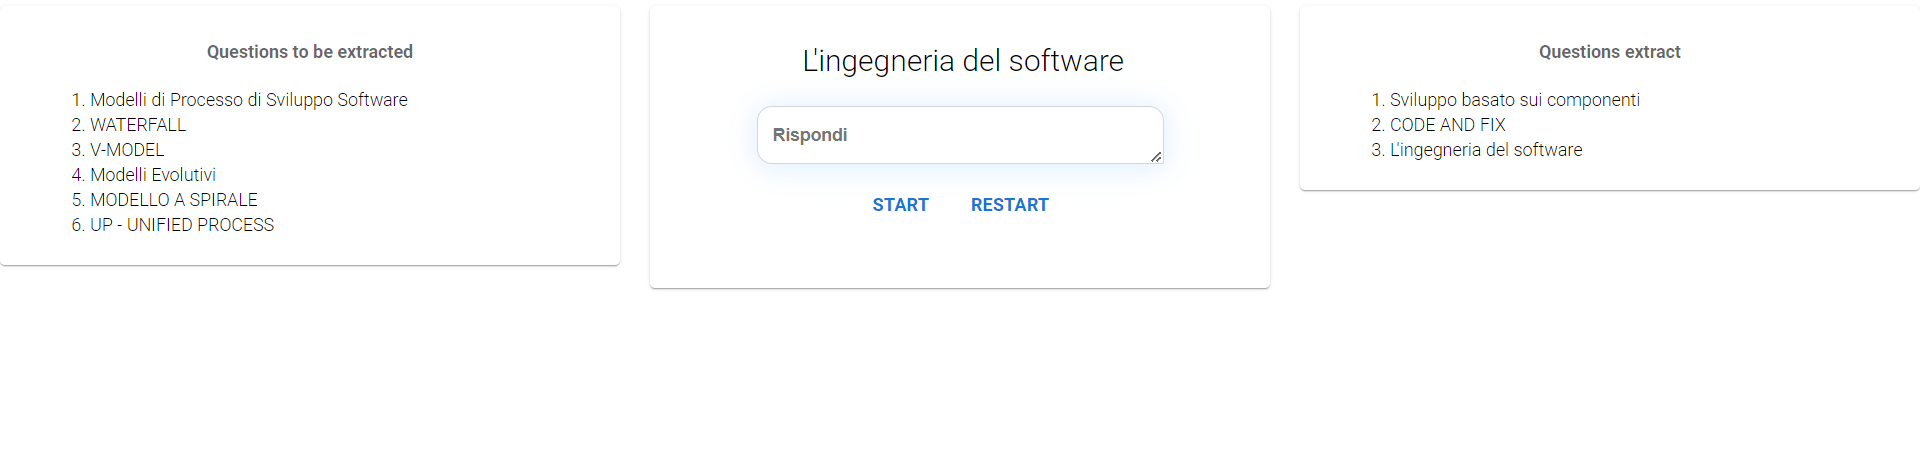
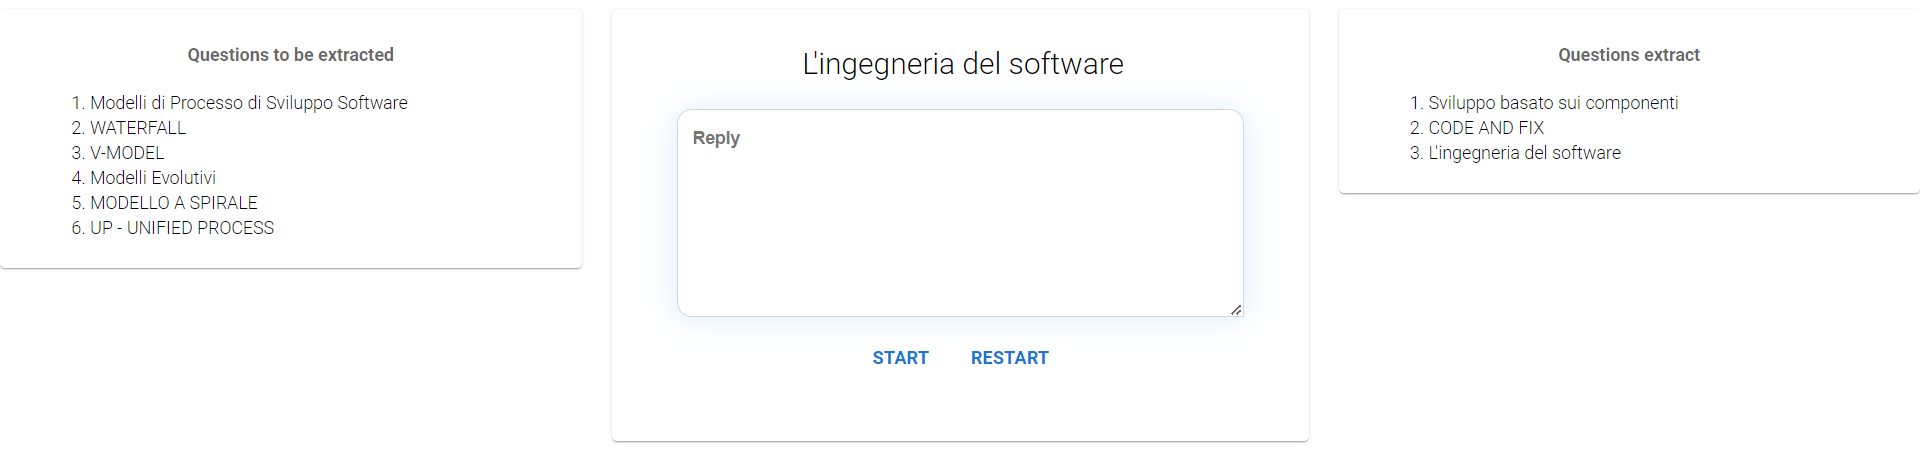
questionGenerator|Add documentation

diff --git a/question-generator/src/EmptyTextArea.js b/question-generator/src/EmptyTextArea.js
@@ -57,5 +57,5 @@ export default function EmptyTextarea() {
     `,
     );
   
-    return <StyledTextarea aria-label="empty textarea" placeholder="Rispondi" />;
+    return <StyledTextarea aria-label="empty textarea" placeholder="Reply" />;
   }
